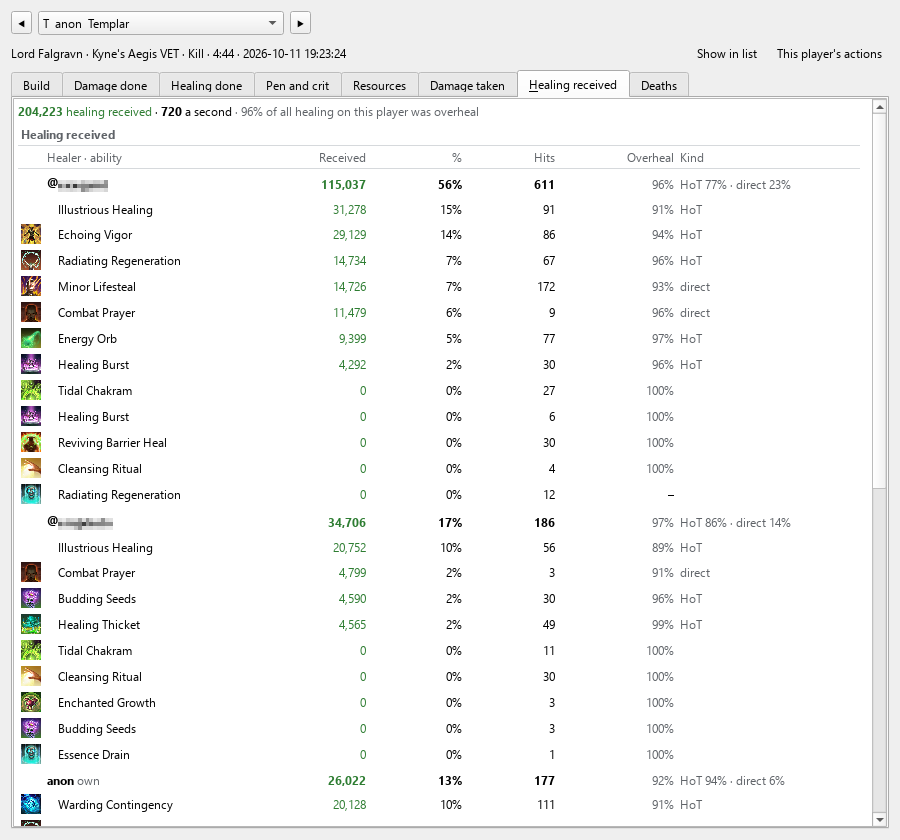
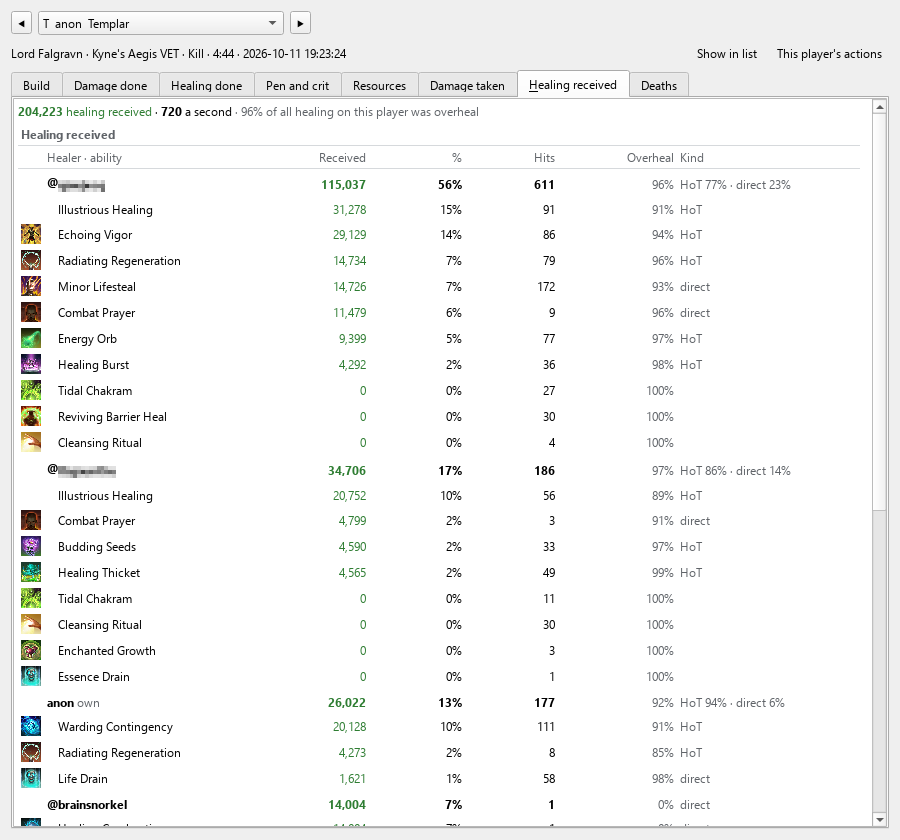
feat: one row per skill on Healing received (follows #242)
The game writes one skill's effects under several ids (Radiating
Regeneration's 40079 and 46266, Budding Seeds' heal and its HoT), and
Healing received listed each id as a row of its own: the same name twice
under a healer, with nothing to tell the two apart. Each healer's ability
rows are now merged by name, as Healing done's are: the figures summed,
the icon of the part that landed most, Kind giving the mix, largest
first.

- merged_abilities moves from healing_render to taken_render, and both
  pages use it. Its docstring carries the why with the numbers (93% of
  2,547 healer-fights over 419 split logs had two rows of one name,
  carrying a quarter of all healing), and build_design_doc takes it into
  the damage taken window's topic.
- The rows that only overflowed stay rows on this tab.
- A test in test_taken_window_gui; the guide's Healing received section
  and its picture, retaken from the Kyne's Aegis split; a changelog
  fragment.

diff --git a/src/gui/taken_render.py b/src/gui/taken_render.py
@@ -35,6 +35,11 @@ player-fights with damage taken; 2026-10-27):
   51-65%, a tank's own heals 23% of what they received, a healer's own
   61%. A pet's heals (a Twilight Matriarch's) are a row of their own named
   after the owner, since the log names no pet.
+- Under a healer, a skill is one row however many ids the game writes it
+  under, its parts added up, as on Healing done (merged_abilities says
+  why; issue #242). An ability whose every heal on this player overflowed
+  is still a row, 0 received at 100% overheal, where Healing done names
+  such abilities on one line under its table.
 - Overheal is a share per row, never an amount: 91-96% of all healing on a
   player overflowed, so the amounts would be ten to twenty times the received
   figures and bury them. Healing received is the headline; the share tells a
@@ -317,9 +322,56 @@ def _heal_kind_words(row: dict) -> str:
     return ""
 
 
+def merged_abilities(rows) -> list[dict]:
+    """The ability rows one per (name, pet or companion), their figures
+    summed (landed, overheal, hits, hot, direct), the icon and id of the
+    part that landed most, largest first. Healing received lists each
+    healer's abilities through it, and Healing done (healing_render) a
+    player's.
+
+    Design. The game writes one skill's effects under several ids:
+    Radiating Regeneration under 40079 and 46266, Budding Seeds' heal and
+    its HoT under 129434 and 85841, Evolving Runemend under four, Breath of
+    Life and Healing Thicket under more than one. Over the maintainer's 419
+    split logs (2026-11-21, issue #242; 2,547 healer-fights, the H rows of
+    boss fights of 30 s or more), 93% of the healer-fights had two ability
+    rows of one name, and those rows carried a quarter of all healing:
+    Radiating Regeneration's in 2,048 healer-fights (at the median its
+    first id landed all of it, so the second was a row of 0), Budding
+    Seeds' in 1,248, Breath of Life's in 165, Healing Thicket's in 61,
+    Evolving Runemend's in 57. Kept apart, they read as two skills of one
+    name with nothing to tell them apart, as Healing received showed
+    Healing Burst and Radiating Regeneration twice. One row per name reads
+    as the skills the healer used, with Kind giving the mix ('HoT 70% ·
+    direct 30%').
+
+    A row's 'via' ('pet' or 'companion'; none for the player's own heals)
+    keeps a pet's abilities apart from its owner's on Healing done; on
+    Healing received a pet is a healer of its own, so its rows carry none.
+    A row with no name is kept apart by its id. The merge is the page's:
+    the engine's rows (damage_kinds) stay one per id."""
+    merged: dict[tuple[str, str], dict] = {}
+    for row in rows or []:
+        key = (str(row.get("name") or row.get("id") or ""), str(row.get("via") or ""))
+        kept = merged.get(key)
+        if kept is None:
+            merged[key] = kept = {"name": key[0], "via": key[1], "id": row.get("id"),
+                                  "icon": row.get("icon"), "best": -1, "landed": 0,
+                                  "overheal": 0, "hits": 0, "hot": 0, "direct": 0}
+        landed = int(row.get("landed") or 0)
+        if landed > kept["best"]:
+            kept["best"], kept["id"], kept["icon"] = landed, row.get("id"), row.get("icon")
+        for field in ("landed", "overheal", "hits", "hot", "direct"):
+            kept[field] += int(row.get(field) or 0)
+    out = list(merged.values())
+    out.sort(key=lambda r: (-r["landed"], -r["overheal"], r["name"], r["via"]))
+    return out
+
+
 def _healers_html(taken: dict, theme, dark: bool, icons, e, names, base_pt: float) -> str:
     """The healing by the unit that did it, by amount received, each unit's
-    abilities under it; the overheal as a share of that row's healing."""
+    abilities under it, one row per skill name (merged_abilities); the
+    overheal as a share of that row's healing."""
     muted = theme["muted"]
     parts = [_section_title(HEALERS_TITLE, theme, dark, "healers")]
     healers = taken.get("healers")
@@ -350,7 +402,7 @@ def _healers_html(taken: dict, theme, dark: bool, icons, e, names, base_pt: floa
             (" align='right'", "", overheal_cell(healer)),
             ("", "", f"<span style='color:{muted}'>{e(_heal_kind_words(healer))}</span>"),
         ), pad="padding-top:5px;"))
-        for row in healer.get("abilities") or []:
+        for row in merged_abilities(healer.get("abilities")):
             icon = _icon_html(row, icons)
             pad = "" if icon else "padding-top:4px;padding-bottom:4px;"
             row_landed = int(row.get("landed") or 0)

diff --git a/tests/unit/test_taken_window_gui.py b/tests/unit/test_taken_window_gui.py
@@ -282,6 +282,58 @@ class TestTakenHtml(TakenWindowTestCase):
         self.assertNotIn('1,400,000', block)
         self.assertNotIn('1,900,000', block)
 
+    def test_a_skill_under_two_ids_is_one_row_under_its_healer(self):
+        """The game writes one skill under several ids: under a healer it is
+        one row, its figures summed, Kind giving the mix and the icon of the
+        part that landed most, as on Healing done (follows issue #242).
+        Another name stays a row of its own, the rows go by the summed
+        figure, and the merge is per healer."""
+        from PySide6.QtGui import QColor, QImage
+
+        from gui import healing_render, taken_render
+        image = QImage(40, 40, QImage.Format_ARGB32)
+        image.fill(QColor('red'))
+        self.assertTrue(image.save(str(self.icons_root / 'taken_window_small.png')))
+        entry = _entry()
+        friend, own = entry.players[0]['taken']['healers'][:2]
+        prayer = friend['abilities'][1]
+        # @friend's 120,000 of Radiating Regeneration as two ids, each under
+        # Combat Prayer's 80,000; the smaller first, so the icon follows the
+        # part that landed most, not the order
+        rr_direct = _heal('14', 'Radiating Regeneration', 50000, 400000, 100,
+                          icon='taken_window_small')
+        rr_hot = _heal('10', 'Radiating Regeneration', 70000, 1000000, 200, hot=70000,
+                       icon='taken_window_test')
+        # A skill whose two ids only overflowed: one row, still a row here
+        burst = [_heal('15', 'Healing Burst', 0, 3000, 6), _heal('16', 'Healing Burst', 0, 2000, 3)]
+        friend['abilities'] = [prayer, rr_direct, rr_hot, *burst]
+        friend.update({'overheal': 1905000, 'hits': 369, 'direct': 130000, 'hot': 70000})
+        # @tester's own Radiating Regeneration stays under @tester
+        own['abilities'] = [_heal('12', 'Echoing Vigor', 105000, 880000, 190, hot=105000),
+                            _heal('10', 'Radiating Regeneration', 5000, 20000, 10, hot=5000)]
+        text = self._text(entry)
+        block = text[text.index('Healing received'):]
+        lines = [line.strip() for line in block.splitlines() if line.strip()]
+        # 120,000 of the 340,000 received, 300 hits, 1,400,000 overheal of
+        # 1,520,000, and HoT 70,000 against direct 50,000
+        self.assertEqual(_cells_after(lines, 'Radiating Regeneration', 5),
+                         ['120,000', '35%', '300', '92%', 'HoT 58% · direct 42%'])
+        self.assertEqual(_cells_after(lines, 'Combat Prayer', 5), ['80,000', '24%', '60', '86%', 'direct'])
+        self.assertEqual(_cells_after(lines, 'Healing Burst', 4), ['0', '0%', '9', '100%'])
+        named = ('@friend', '@tester own', '@friend pet', 'Radiating Regeneration', 'Combat Prayer',
+                 'Healing Burst', 'Echoing Vigor', 'Twilight Matriarch')
+        self.assertEqual([line for line in lines if line in named],
+                         ['@friend', 'Radiating Regeneration', 'Combat Prayer', 'Healing Burst',
+                          '@tester own', 'Echoing Vigor', 'Radiating Regeneration',
+                          '@friend pet', 'Twilight Matriarch'])
+        html = taken_render.render_taken_html(entry, '1', icons=self._cache())
+        # The icons: Snap's among the sources and the merged row's, the
+        # larger part's; the smaller part's never
+        self.assertEqual(html.count('<img src="icon:taken_window_test"'), 2)
+        self.assertNotIn('icon:taken_window_small', html)
+        # One rule for both pages
+        self.assertIs(healing_render.merged_abilities, taken_render.merged_abilities)
+
     def test_small_print(self):
         text = self._text()
         self.assertIn('Per-second figures divide by the fight time', text)

diff --git a/src/gui/healing_render.py b/src/gui/healing_render.py
@@ -12,12 +12,9 @@ more):
 - The headline is the row's healing to others with its rate over the fight
   time and its share of the group's, the token's three figures, then the
   share of the player's heals on others that overflowed.
-- Abilities are one row per name. The game writes one skill's effects under
-  several ids (Radiating Regeneration's two in 2,048 of those healer-fights,
-  Budding Seeds' heal and its HoT in 1,248, Evolving Runemend's four), and
-  93% of the healer-fights had two rows of one name, carrying a quarter of
-  all healing: kept apart they read as two skills of one name with nothing
-  to tell them apart. Kind gives the mix, 'HoT 70% · direct 30%'. A pet's
+- Abilities are one row per name, a skill's ids added up, as on Healing
+  received (taken_render.merged_abilities, which both pages use, says why
+  with the numbers). Kind gives the mix, 'HoT 70% · direct 30%'. A pet's
   abilities (a Twilight Matriarch's) are rows of their own, marked.
 - A healer had a median 8 abilities that landed (at most 17), so every one
   is listed. The abilities whose every heal on another player overflowed
@@ -60,6 +57,7 @@ from gui.taken_render import (
     _rate,
     _section_title,
     _table_open,
+    merged_abilities,
 )
 from gui.text_size import scaled_px
 
@@ -92,28 +90,6 @@ def healing_done_title(entry, unit_id, names=None) -> str:
     player = player_for(entry, unit_id)
     name = (names or NO_MASK).text(_join(player.get("name", ""))) if player else ""
     return f"Healing done – {name}" if name else "Healing done"
-
-
-def merged_abilities(rows) -> list[dict]:
-    """The ability rows one per (name, pet or companion), their figures
-    summed, the icon and id of the part that landed most, largest first
-    (see the module notes)."""
-    merged: dict[tuple[str, str], dict] = {}
-    for row in rows or []:
-        key = (str(row.get("name") or row.get("id") or ""), str(row.get("via") or ""))
-        kept = merged.get(key)
-        if kept is None:
-            merged[key] = kept = {"name": key[0], "via": key[1], "id": row.get("id"),
-                                  "icon": row.get("icon"), "best": -1, "landed": 0,
-                                  "overheal": 0, "hits": 0, "hot": 0, "direct": 0}
-        landed = int(row.get("landed") or 0)
-        if landed > kept["best"]:
-            kept["best"], kept["id"], kept["icon"] = landed, row.get("id"), row.get("icon")
-        for field in ("landed", "overheal", "hits", "hot", "direct"):
-            kept[field] += int(row.get(field) or 0)
-    out = list(merged.values())
-    out.sort(key=lambda r: (-r["landed"], -r["overheal"], r["name"], r["via"]))
-    return out
 
 
 def _paragraphs(lines) -> str:

diff --git a/scripts/build_design_doc.py b/scripts/build_design_doc.py
@@ -182,6 +182,7 @@ TOPICS = [
     ]),
     ("The damage taken window: by source and by healer, over the whole fight", [
         "src/gui/taken_render.py",
+        "src/gui/taken_render.py:merged_abilities",
     ]),
     ("Healing done: a healer's heals on the others, by ability and by player", [
         "src/gui/fight_render.py:healing_token_parts",

diff --git a/docs/user-guide.md b/docs/user-guide.md
@@ -363,7 +363,7 @@ The shield after a player's name, in either view, opens everything that reached 
 
 ### Healing received
 
-The healing line on Damage taken opens this tab, which repeats that line and then lists every unit that healed the player, by the healing the player received from it, with the player's own heals marked `own` and a pet's heals (a Twilight Matriarch's) in a row of their own, named after the owner and marked `pet`. Under each healer, their abilities. **Overheal** is the share of that row's healing that overflowed, not an amount: in a trial about nine tenths of all healing on a player is overheal, so the amounts would bury the healing received; a row near 100% is a HoT ticking on a full bar. **Kind** says `HoT`, `direct`, or the mix.
+The healing line on Damage taken opens this tab, which repeats that line and then lists every unit that healed the player, by the healing the player received from it, with the player's own heals marked `own` and a pet's heals (a Twilight Matriarch's) in a row of their own, named after the owner and marked `pet`. Under each healer, their abilities, largest first: a skill the game writes under more than one id (Radiating Regeneration twice, Budding Seeds' heal and its HoT) is one row, its parts added up, as on [Healing done](#healing-done). **Overheal** is the share of that row's healing that overflowed, not an amount: in a trial about nine tenths of all healing on a player is overheal, so the amounts would bury the healing received; a row near 100% is a HoT ticking on a full bar. **Kind** says `HoT`, `direct`, or the mix.
 
 ![The Healing received tab: healing by healer, each healer's abilities under them](screencaps/healing-received.png)
 

diff --git a/changelog.d/healing-received-one-row-per-skill.md b/changelog.d/healing-received-one-row-per-skill.md
@@ -1,0 +1,2 @@
+### Changed
+- **Healing received lists each skill once** (follows #242): a skill the game writes under more than one id, such as Radiating Regeneration or Budding Seeds' heal and its HoT, showed as two rows of the same name under a healer, with nothing to tell them apart. It is now one row, its healing, hits and overheal added up, and **Kind** gives the mix (`HoT 70% · direct 30%`), as on the Healing done tab.
